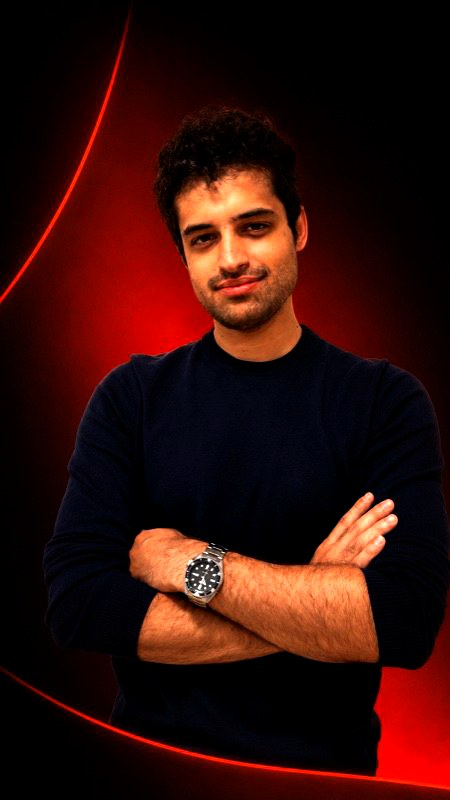
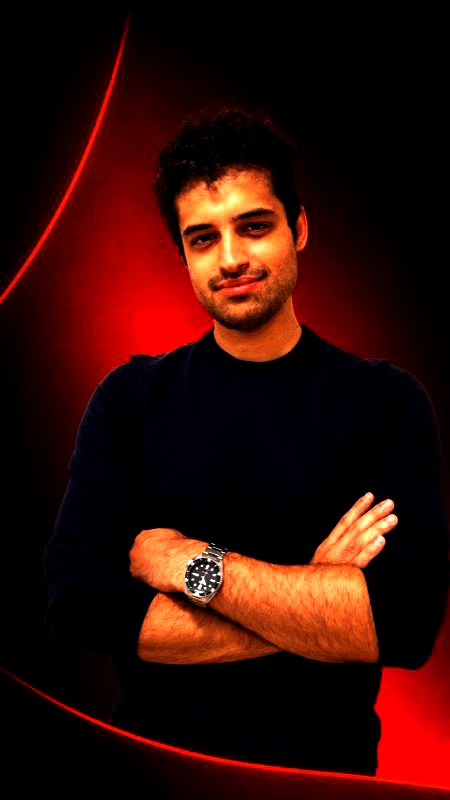
feat: hero video poster (miniatura) + Carlos photo brighter (2nd pass)
- Hero VSL: added poster=miniatura-video.jpg (404KB, optimized from 2.1MB PNG)
- Carlos.jpg: 2nd pass · gamma 0.82 + brightness +15% + contrast +5% + color +8%
- Photo now visibly lighter, better separated from dark background

diff --git a/index.html b/index.html
@@ -192,7 +192,7 @@
     </p>
 
     <div class="hv2-video-wrap">
-      <video class="hv2-video" controls preload="metadata" playsinline>
+      <video class="hv2-video" controls preload="metadata" playsinline poster="https://executive-lab-venta.vercel.app/assets/imagenes/miniatura-video.jpg">
         <source src="https://dl.dropboxusercontent.com/scl/fi/enssmw44x6gwvgwobjwce/Presentacion-Executive-Lab-Version-Final.mp4?rlkey=hatqx68n9lbeyzq11j6l33yw0" type="video/mp4">
         Tu navegador no soporta vídeo HTML5.
       </video>